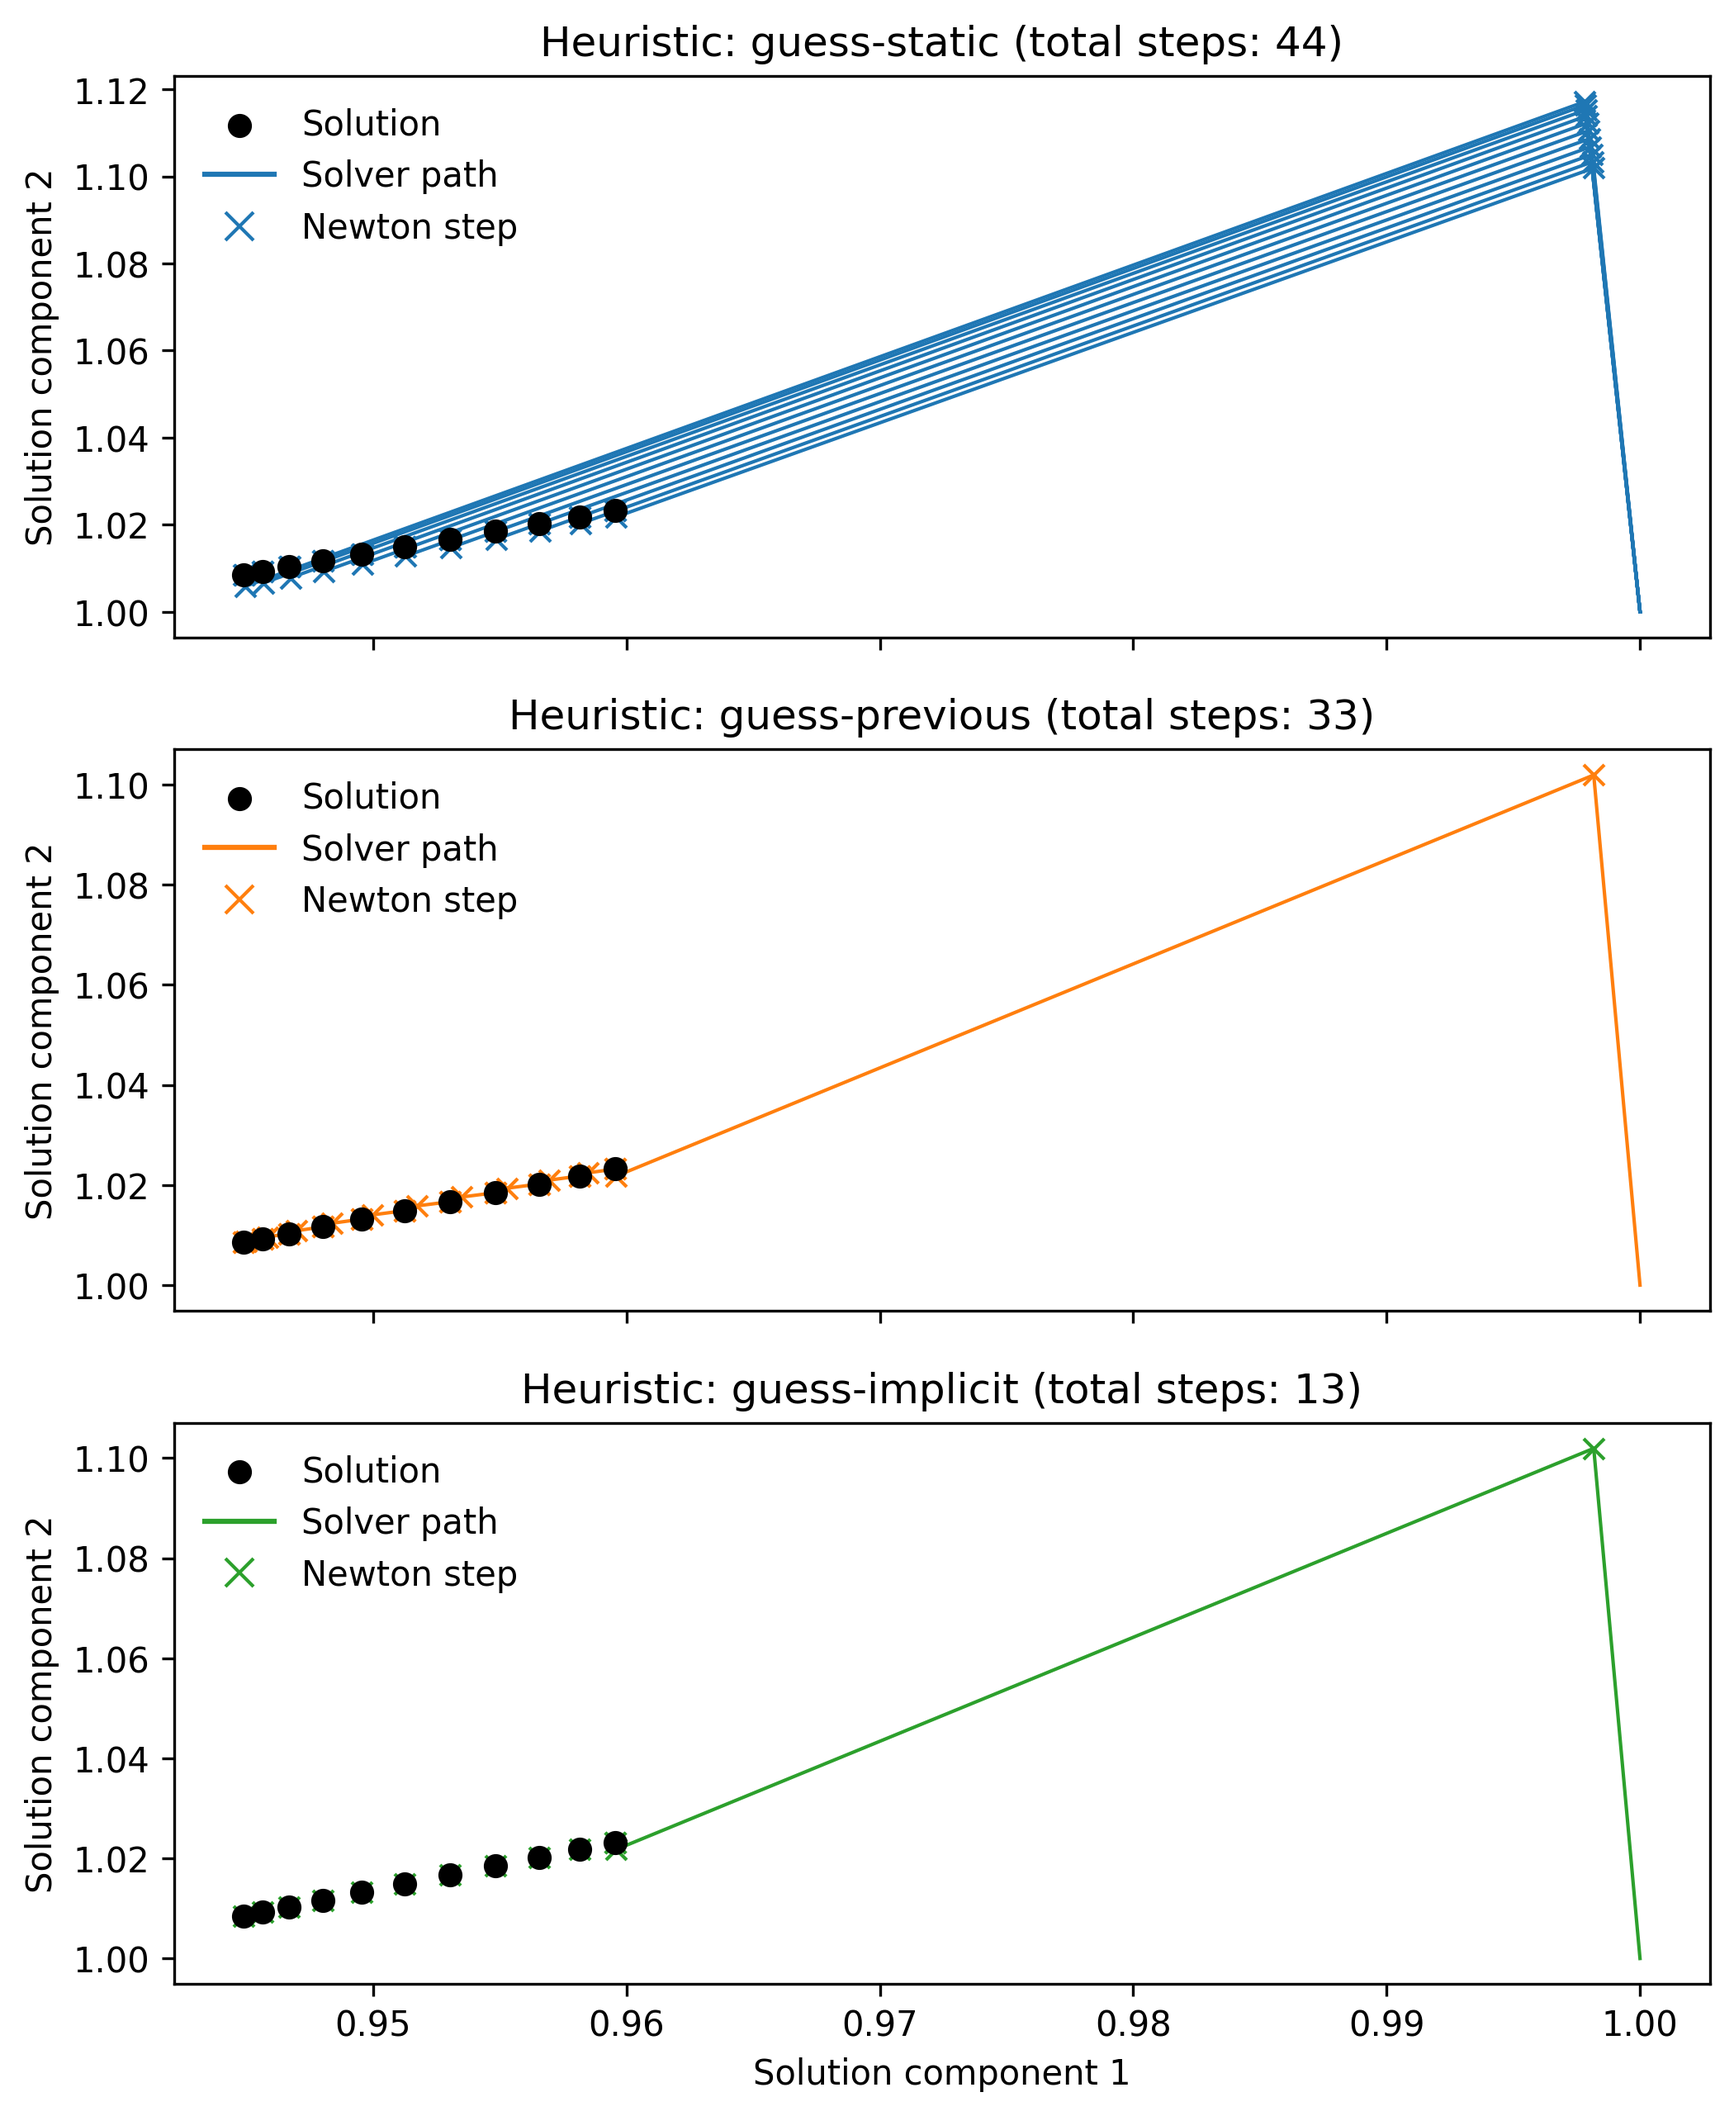
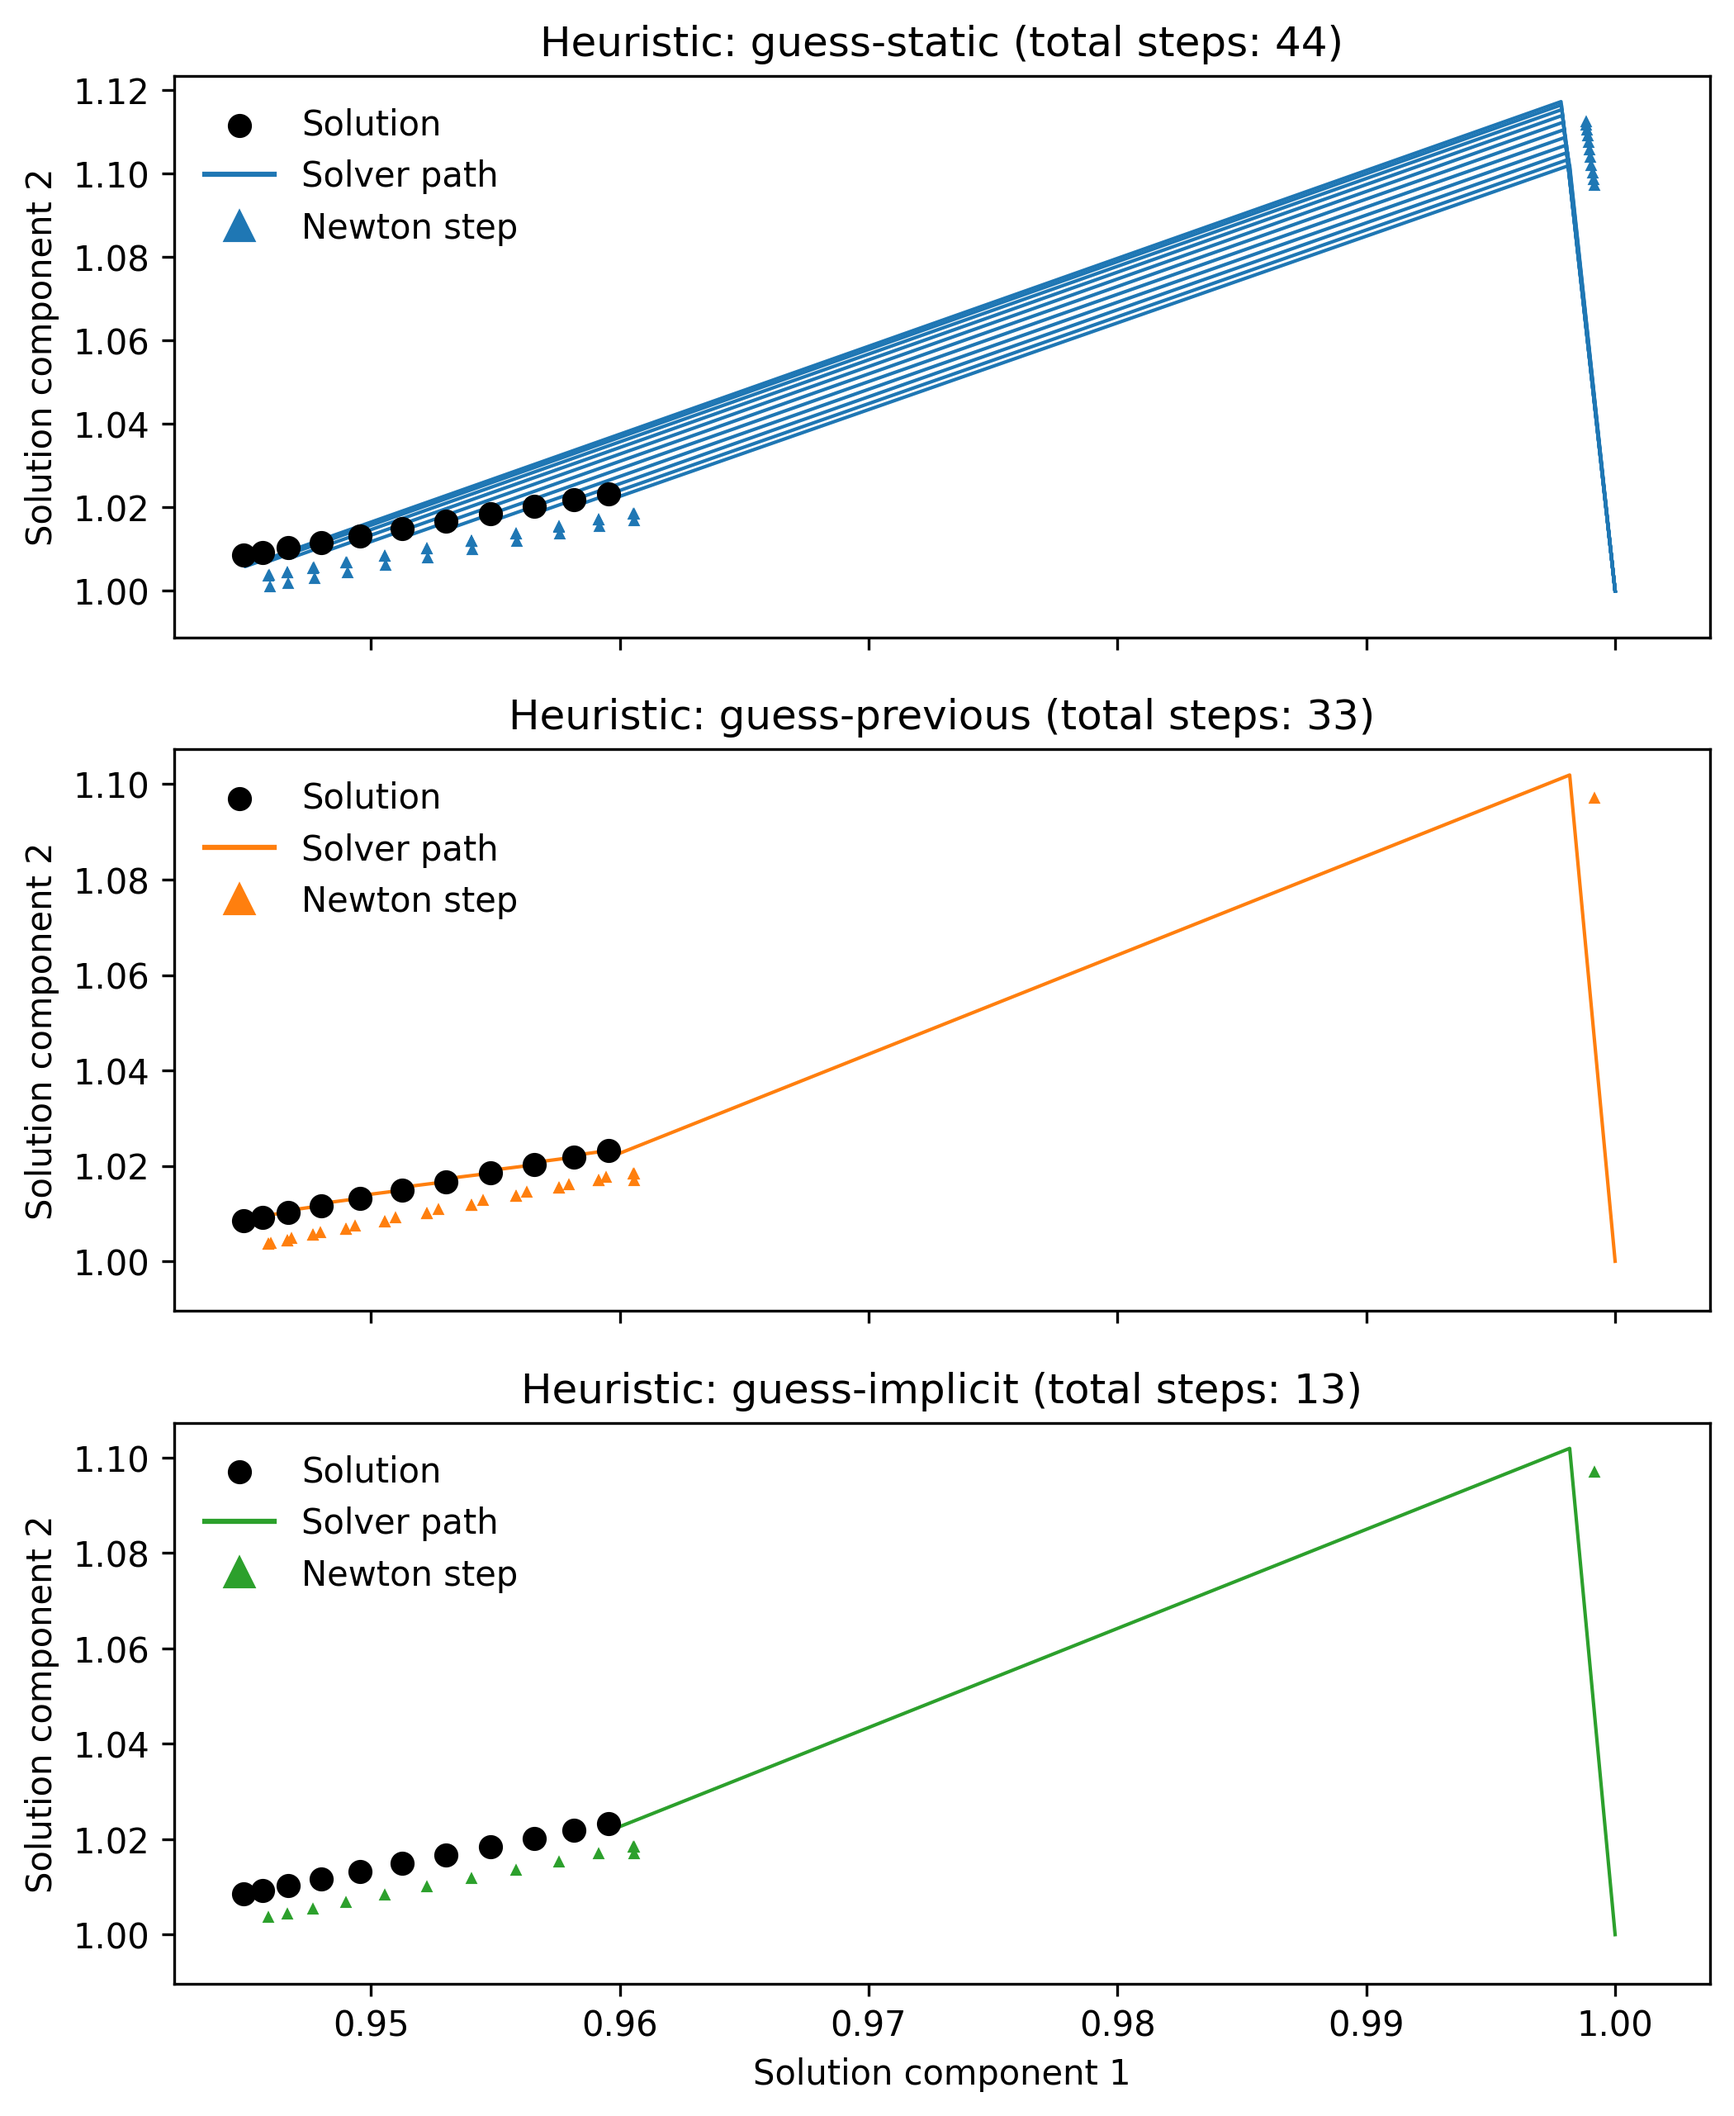
minor benchmark updates

diff --git a/benchmarks/analyse_results.py b/benchmarks/analyse_results.py
@@ -1,11 +1,9 @@
 from pathlib import Path
 
 import matplotlib
-import matplotlib.patches as mpatches
 import numpy as np
 import polars as pl
 from matplotlib import pyplot as plt
-from matplotlib.legend_handler import HandlerPatch
 
 HERE = Path(__file__).parent
 CSV_FILE_METHIONINE = HERE / "methionine.csv"
@@ -18,39 +16,6 @@ HEURISTIC_COLORS = {
     "guess_previous": "tab:orange",
     "guess_implicit": "tab:green",
 }
-
-
-class HandlerArrow(HandlerPatch):
-    """Custom legend handler for arrows.
-
-    Copied from <https://stackoverflow.com/questions/60781312/plotting-arrow-in-front-of-legend>
-    """
-
-    def create_artists(
-        self,
-        legend,
-        orig_handle,
-        xdescent,
-        ydescent,
-        width,
-        height,
-        fontsize,
-        trans,
-    ):
-        p = mpatches.FancyArrow(
-            0,
-            0.5 * height,
-            width,
-            0,
-            length_includes_head=True,
-            head_width=0.7 * height,
-            fill=True,
-            linewidth=0,
-            color="tab:blue",
-        )
-        self.update_prop(p, orig_handle, legend)
-        p.set_transform(trans)
-        return [p]
 
 
 def plot_comparison(ax_title: str, df: pl.DataFrame, ax: plt.Axes):
@@ -85,15 +50,8 @@ def mm_fig(results_df: pl.DataFrame):
 
 def performance_fig(results: pl.DataFrame):
     f, ax = plt.subplots(figsize=[8, 5])
-    cases = pl.DataFrame(
-        {
-            "case": results["case"].unique(maintain_order=True),
-            "x": np.linspace(*ax.get_xlim(), results["case"].n_unique()),
-        }
-    )
     plot_df = (
-        results.join(cases, on="case")
-        .with_columns(
+        results.with_columns(
             x_jitter=pl.Series(
                 np.random.normal(scale=0.01, size=results.shape[0])
             ),
@@ -101,7 +59,15 @@ def performance_fig(results: pl.DataFrame):
         )
         # guess_implicit_cg should behave the same as guess_implicit
         .filter(pl.col("heuristic") != "guess_implicit_cg")
+        .sort(pl.col("steps_per_neff").mean().over("case"))
     )
+    x = pl.DataFrame(
+        {
+            "case": plot_df["case"].unique(maintain_order=True),
+            "x": np.linspace(*ax.get_xlim(), plot_df["case"].n_unique()),
+        }
+    )
+    plot_df = plot_df.join(x, on="case")
     for (heuristic,), subdf in plot_df.group_by(
         "heuristic", maintain_order=True
     ):
@@ -130,17 +96,17 @@ def performance_fig(results: pl.DataFrame):
         frameon=False,
     )
     # ax.grid(visible=True, which="major", axis="y")
-    ax.set_xticks(cases["x"], list(cases["case"]), fontsize="xx-small")
+    ax.set_xticks(x["x"], list(x["case"]), fontsize="xx-small")
     ax.set(
         ylabel="Solver steps per effective sample",
-        xlabel="Test case",
+        xlabel="Benchmark",
     )
     ax.semilogy()
     # ax.yaxis.set_major_formatter(ticker.ScalarFormatter())
     return f, ax
 
 
-def trajectory_scatter(result: pl.DataFrame):
+def illustrative_figure(result: pl.DataFrame):
     f, axes = plt.subplots(3, 1, figsize=[8, 10], sharex=True)
     axes = axes.ravel()
     gfunc_to_ax = dict(zip(HEURISTIC_COLORS.keys(), axes))
@@ -166,14 +132,22 @@ def trajectory_scatter(result: pl.DataFrame):
             line = ax.plot(
                 x,
                 y,
-                marker="x",
                 color=HEURISTIC_COLORS[gfunc],
-                markevery=slice(1, None),
                 zorder=-1,
                 lw=1,
             )[0]
+            crosses = ax.plot(
+                [xi + 0.001 for xi in x],
+                [yi - 0.005 for yi in y],
+                color=HEURISTIC_COLORS[gfunc],
+                marker="^",
+                markevery=slice(1, None),
+                zorder=-1,
+                markersize=2,
+                lw=0,
+            )[0]
             line_color = line.get_color()
-            marker = line.get_marker()
+            marker = crosses.get_marker()
             line_handle = matplotlib.lines.Line2D(
                 [],
                 [],
@@ -222,7 +196,7 @@ def main():
     f, _ = performance_fig(df_performance)
     f.savefig(HERE / "performance.png", bbox_inches="tight", dpi=300)
 
-    f, _ = trajectory_scatter(df_trajectory)
+    f, _ = illustrative_figure(df_trajectory)
     f.savefig(HERE / "trajectory.png", bbox_inches="tight", dpi=300)
 
 
